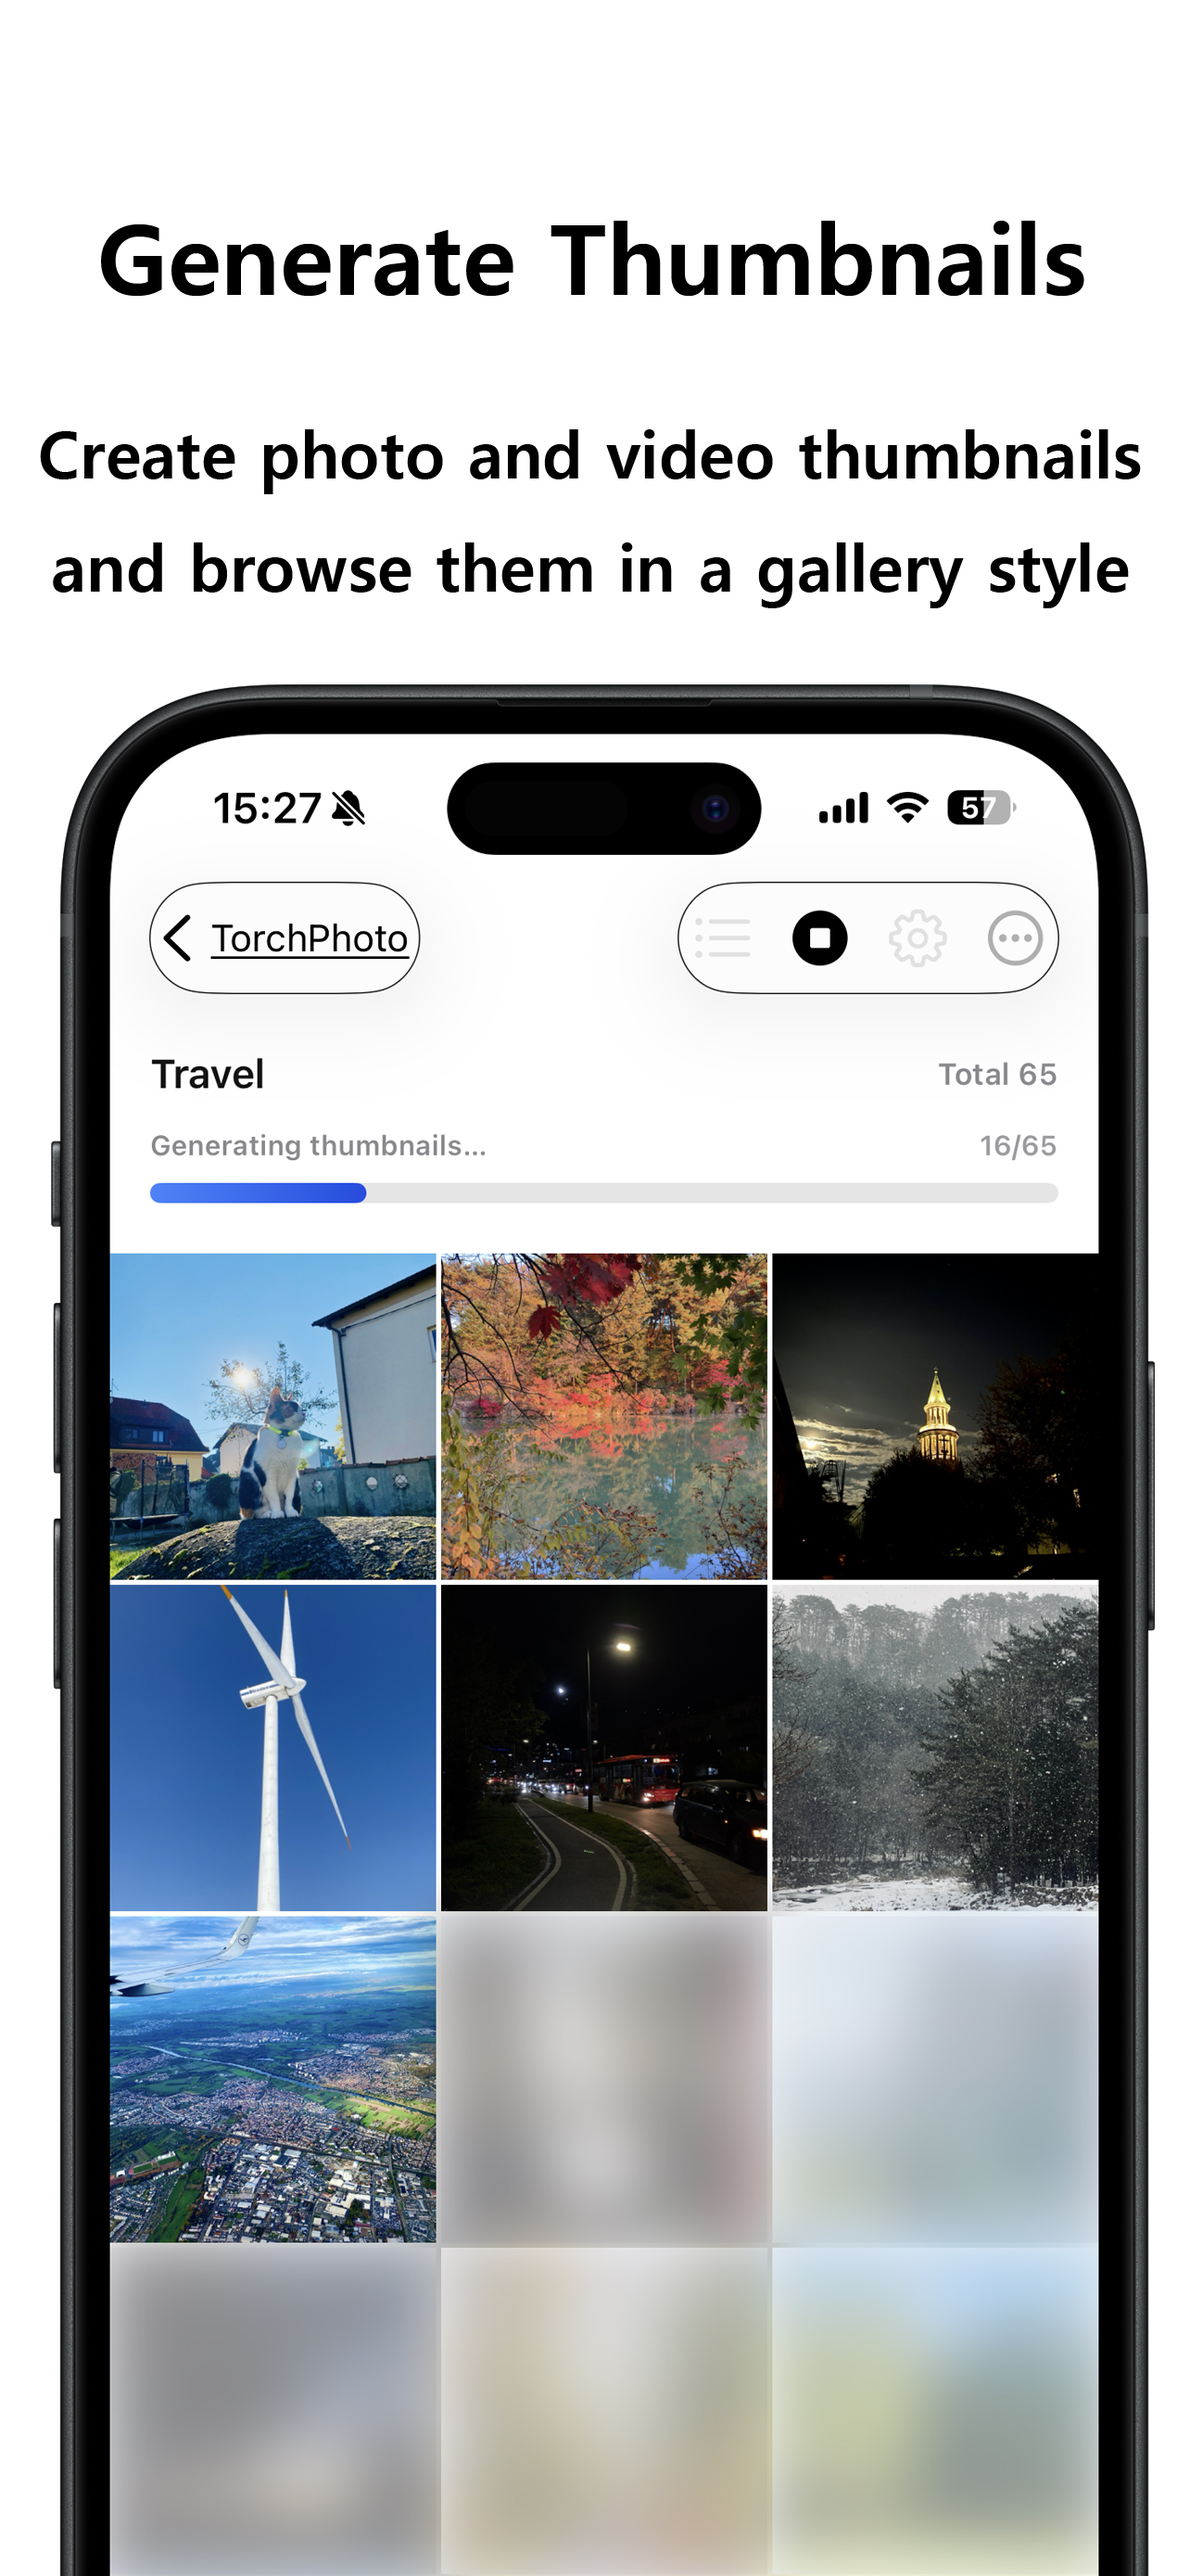
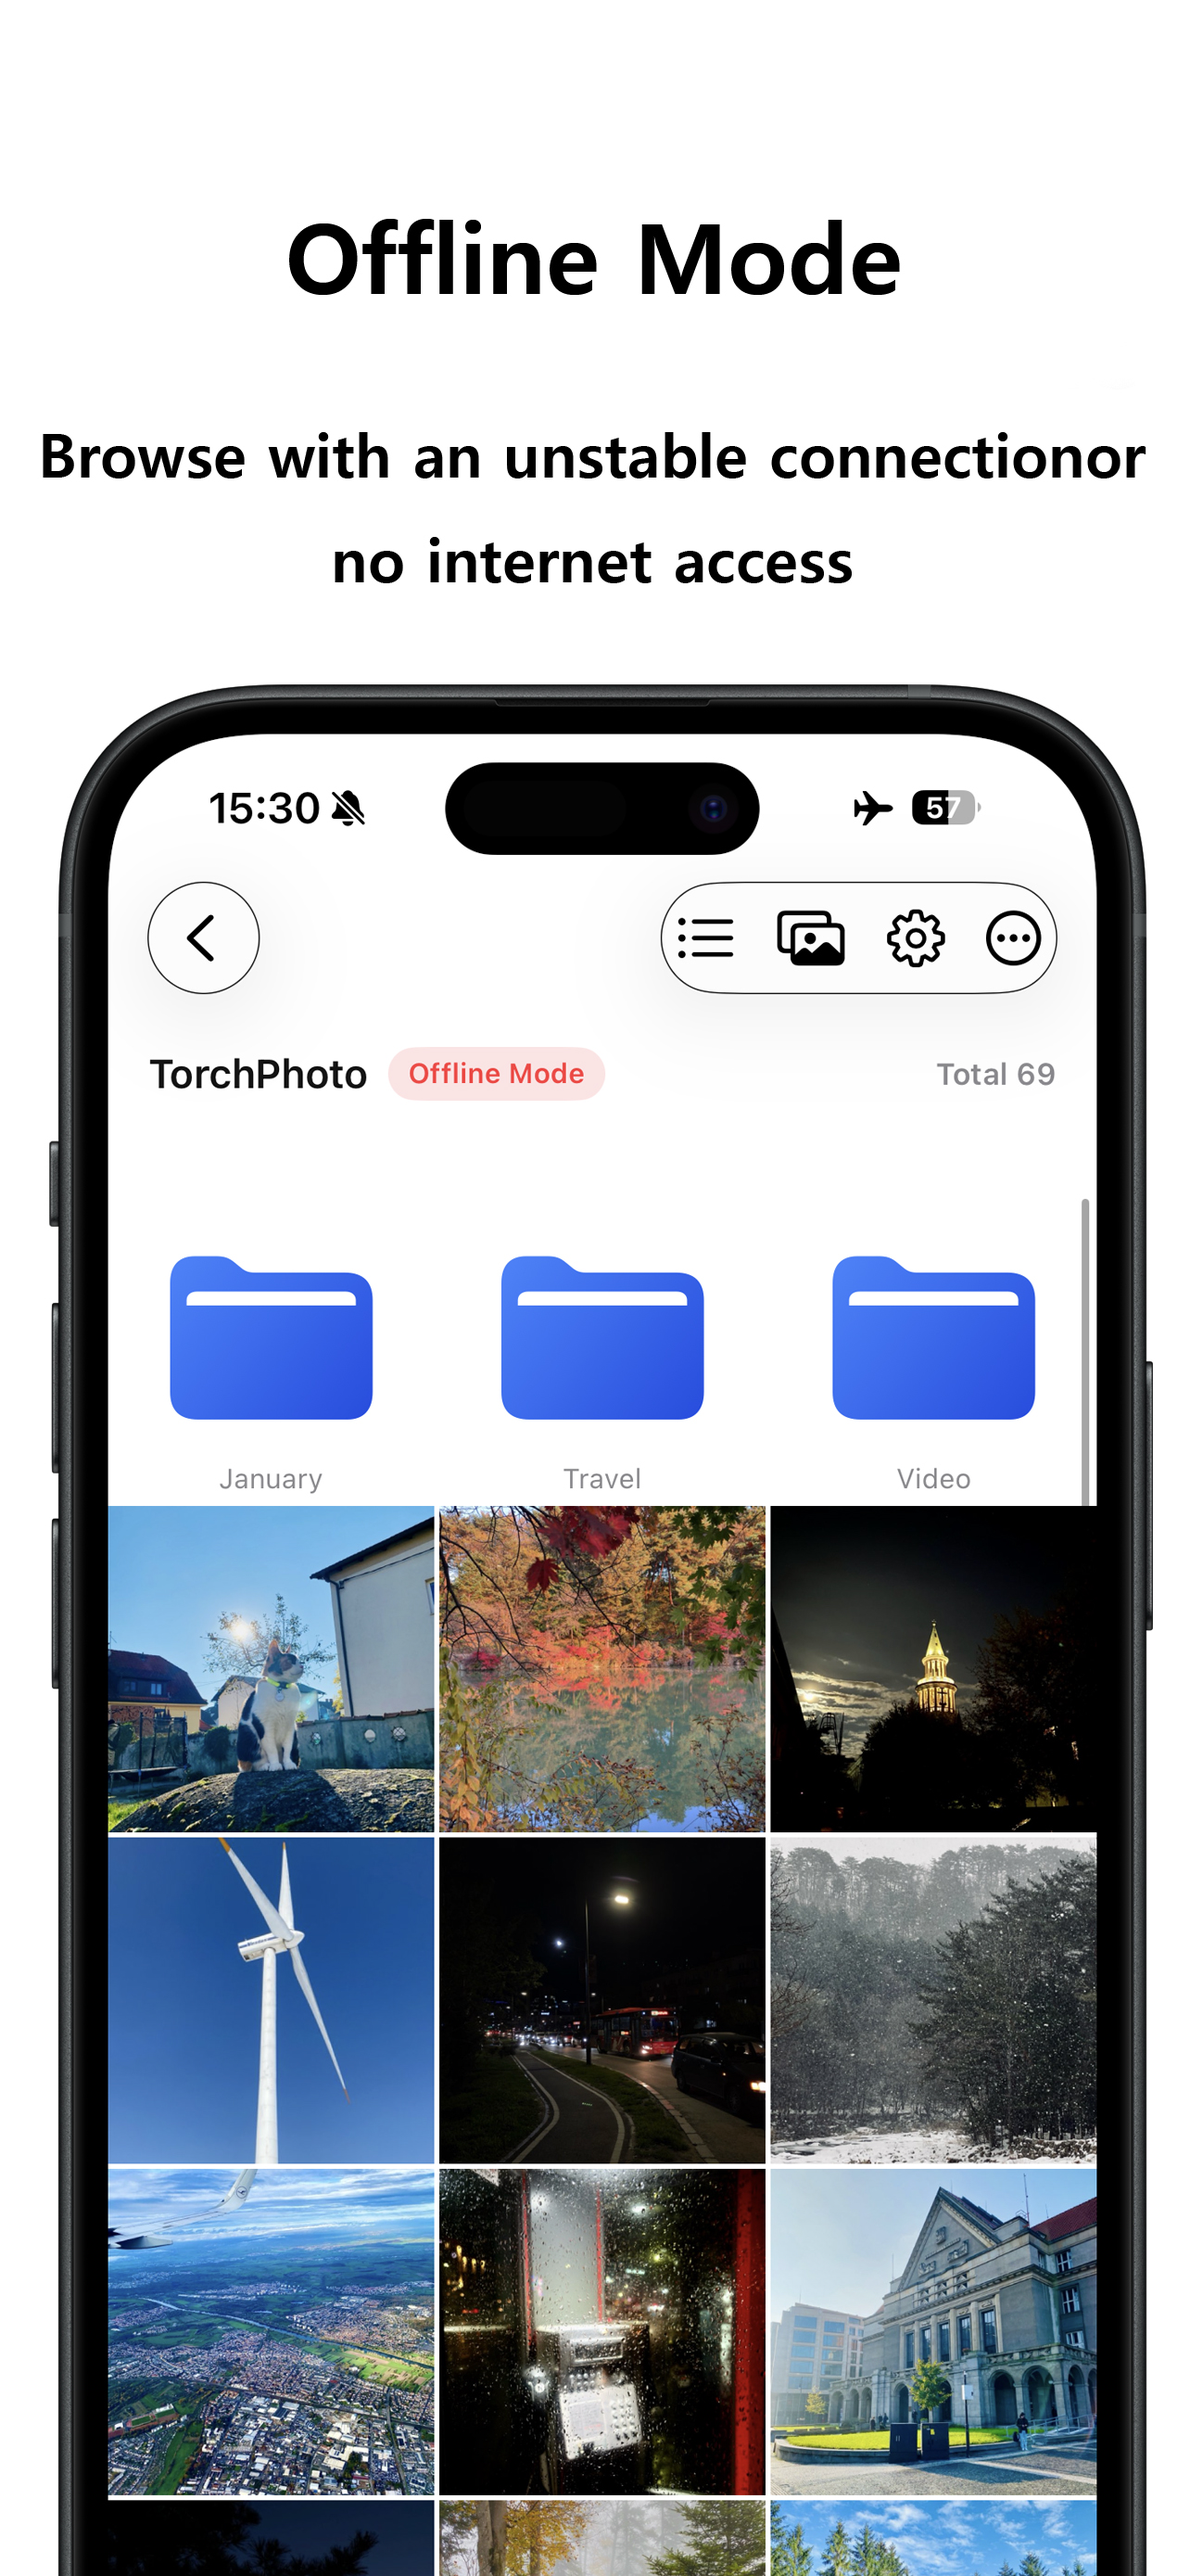
Add files via upload

diff --git a/qa.html b/qa.html
@@ -39,9 +39,23 @@
 
             <div class="guide-list">
                 <details class="guide-item">
+                    <summary>Where can I ask new questions or get in touch?</summary>
+                    <div class="guide-content">
+                        <p>Please email us at <b>teamtorchphoto@gmail.com</b>, and we will review it and reply as soon as possible.</a></p>
+                    </div>
+                </details>
+				
+                <details class="guide-item">
                     <summary>What kind of app is TorchPhoto?</summary>
                     <div class="guide-content">
                         <p>TorchPhoto is an iOS app designed to help you browse photos and videos stored on FTP or NAS servers quickly like an album on iPhone and iPad. It focuses more on photo and video viewing than a typical file explorer.</p>
+                    </div>
+                </details>
+				
+                <details class="guide-item">
+                    <summary>How is it different from a typical FTP app?</summary>
+                    <div class="guide-content">
+                        <p>While a typical FTP app focuses on file management, TorchPhoto focuses more on media browsing with features like photo and video viewing, thumbnail generation, offline thumbnail browsing, QR sharing, metadata viewing, and slideshow.</p>
                     </div>
                 </details>
 
@@ -231,20 +245,6 @@
                     <summary>What kind of users is this app best for?</summary>
                     <div class="guide-content">
                         <p>It is especially well suited for photographers, media teams, field workers, and resellers who store many photos and videos on servers and need to review, browse, and share them quickly on mobile.</p>
-                    </div>
-                </details>
-
-                <details class="guide-item">
-                    <summary>How is it different from a typical FTP app?</summary>
-                    <div class="guide-content">
-                        <p>While a typical FTP app focuses on file management, TorchPhoto focuses more on media browsing with features like photo and video viewing, thumbnail generation, offline thumbnail browsing, QR sharing, metadata viewing, and slideshow.</p>
-                    </div>
-                </details>
-
-                <details class="guide-item">
-                    <summary>How can I contact you?</summary>
-                    <div class="guide-content">
-                        <p>Please email us at <b>teamtorchphoto@gmail.com</b>, and we will review it and reply as soon as possible.</a></p>
                     </div>
                 </details>
             </div>

diff --git a/index.html b/index.html
@@ -230,7 +230,7 @@
                         <li><i class="fas fa-check"></i><span>No server slideshow</span></li>
                         <li><i class="fas fa-check"></i><span>Thumbnail sharing with a <font color="red">30-minute cooldown</font></span></li>
 						<li><i class="fas fa-check"></i><span>You can upload up to <font color="red">50 items at a time</font></span></li>
-						<li><i class="fas fa-check"></i><span>Optimization features are not supported</span></li>
+						<li><i class="fas fa-check"></i><span>Optimization features <font color="red">are not supported</font></span></li>
                     </ul>
                 </div>
 

diff --git a/torchphoto.html b/torchphoto.html
@@ -230,7 +230,7 @@
                         <li><i class="fas fa-check"></i><span>No server slideshow</span></li>
                         <li><i class="fas fa-check"></i><span>Thumbnail sharing with a <font color="red">30-minute cooldown</font></span></li>
 						<li><i class="fas fa-check"></i><span>You can upload up to <font color="red">50 items at a time</font></span></li>
-						<li><i class="fas fa-check"></i><span>Optimization features are not supported</span></li>
+						<li><i class="fas fa-check"></i><span>Optimization features <font color="red">are not supported</font></span></li>
                     </ul>
                 </div>
 

diff --git a/QRguide.html b/QRguide.html
@@ -60,7 +60,7 @@
                     <summary>Register a Server from a Shared QR Image</summary>
                     <div class="guide-content">
                         <div class="guide-body">
-                            <img src="QRguide.jpg">
+                            <img src="qrguide.jpg">
                             <div class="guide-copy">
                                 <h3>How to Use a Shared QR Image</h3>
                                 <p>If someone shares a server QR as an image, you can scan that image in TorchPhoto and register the server without entering the details manually.</p>
